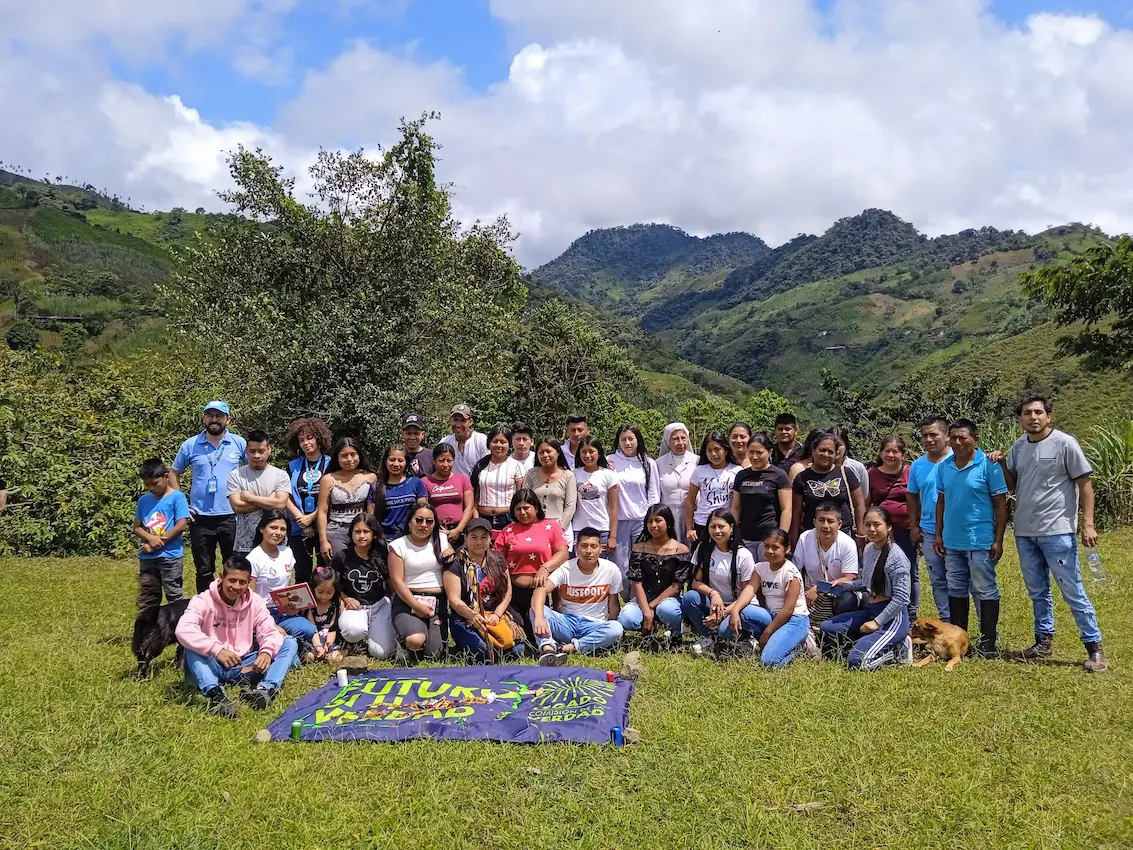
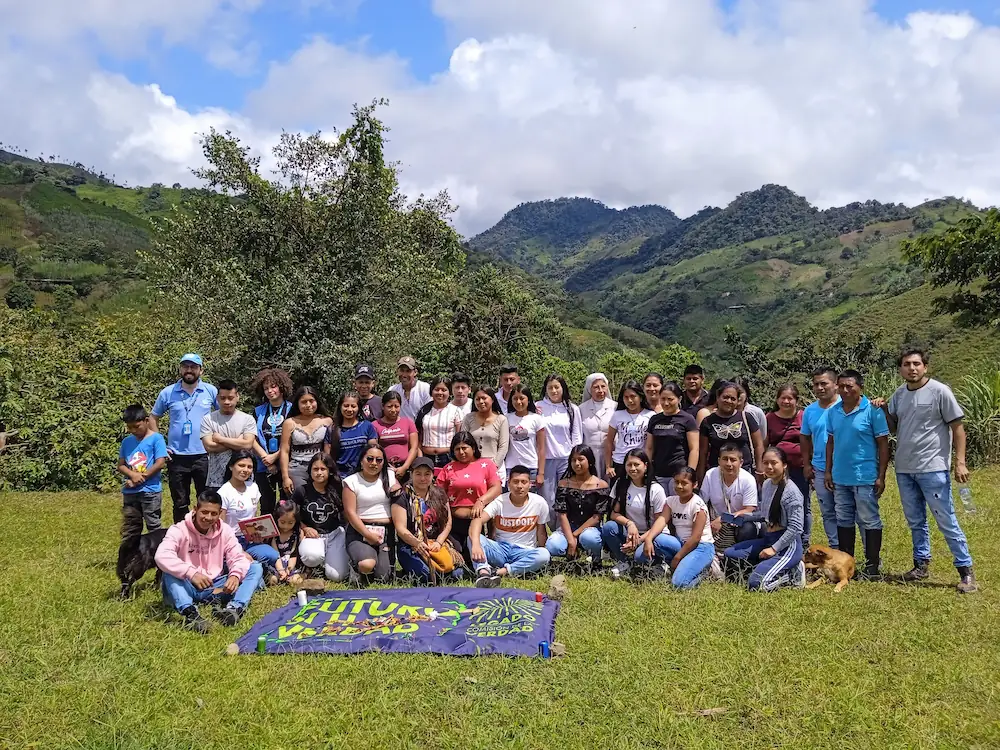
feat : mejorar imagenes

diff --git a/src/components/organisms/sections/about/AboutSection.tsx b/src/components/organisms/sections/about/AboutSection.tsx
@@ -11,28 +11,28 @@ const timeline = [
     title: "Fundación de la Organización",
     description:
       "La FUNDACIÓN CAMINOS DE PAZ Y ESPERANZA fue registrada legalmente el 05 de abril de 2017 ante la Cámara de Comercio de Pasto, Nariño, como una entidad sin ánimo de lucro. Su objeto principal es cooperar en la labor social encaminada a la PROMOCIÓN HUMANA y contribuir al desarrollo social, económico y cultural de la región. Esto incluye la formulación de planes y proyectos de educación (Formal, Informal, para el trabajo y desarrollo humano), con un enfoque en la inclusión social y proyección ambiental. Desde sus inicios, la Fundación se ha dedicado a atender a poblaciones vulnerables, como víctimas del conflicto armado, personas con discapacidad, población en situación de desplazamiento, y grupos étnicos.",
-    image: "/Image/1.jpg",
+    image: "/Image/1.webp",
   },
   {
     year: "2019",
     title: "Expansión Estratégica",
     description:
       "Este período marcó una Expansión Estratégica significativa, ampliando nuestra presencia y el alcance de los programas a 10 nuevas comunidades en Nariño. Esta expansión fortaleció la red de trabajo y permitió aplicar las líneas de acción de la Fundación, como el Desarrollo Socio Económico y Cultural y la Convivencia y Paz , en zonas que requieren atención psicosocial, fomento del espíritu emprendedor, y proyectos de reconciliación y no estigmatización en áreas afectadas por el conflicto armado.",
-    image: "/Image/2.jpg",
+    image: "/Image/2.webp",
   },
   {
     year: "2021",
     title: "Consolidación Institucional y Alianzas Educativas",
     description:
       "La Fundación recibió un Reconocimiento Nacional por sus iniciativas en promoción de la paz y el bienestar social, consolidando su reputación. Además, consolidó su capacidad formativa a través de convenios con instituciones como el POLITÉCNICO SUR ANDINO. Gracias a esta alianza, la Fundación ofrece capacitaciones, seminarios, cursos y diplomados con personal altamente calificado en áreas clave como Convivencia Escolar, Inclusión Educativa, Neuro psicopedagogía, y la apropiación crítica de las TIC'S en procesos formativos y productivos.",
-    image: "/Image/3.jpg",
+    image: "/Image/3.webp",
   },
   {
     year: "2025",
     title: "Impacto Actual",
     description:
       "Actualmente, la Fundación mantiene un impacto activo con más de 1000 beneficiarios, enfocándose en sus cuatro líneas de acción principales: Desarrollo Socio Económico y Cultural, Convivencia y Paz, Ambiente Sostenible y en Paz, y Proyecto de Vida Emprendimiento Sostenible. Se están ejecutando proyectos clave, como el Bordado Guatemalteco en Santa Bárbara para la autonomía económica de las mujeres, y proyectos de Agricultura Urbana Sostenible. Este trabajo continuo y su compromiso con la inclusión social y la sostenibilidad buscan lograr la Visión de ser líderes en el desarrollo de proyectos sociales para el año 2027.",
-    image: "/Image/4.jpg",
+    image: "/Image/4.webp",
   },
 ];
 

diff --git a/src/components/organisms/layout/Footer.tsx b/src/components/organisms/layout/Footer.tsx
@@ -30,7 +30,7 @@ export const Footer = () => {
 
           {/* Contacto */}
           <section aria-label="Contacto">
-            <h4 className="text-primario text-sm font-bold uppercase tracking-wider mb-6">
+            <h4 className="text-fondo text-sm font-bold uppercase tracking-wider mb-6">
               Contacto
             </h4>
             <address className="space-y-4 not-italic">
@@ -54,15 +54,15 @@ export const Footer = () => {
 
           {/* Enlaces internos */}
           <nav aria-label="Enlaces rápidos">
-            <h4 className="text-primario text-sm font-bold uppercase tracking-wider mb-6">
+            <h4 className="text-fondo text-sm font-bold uppercase tracking-wider mb-6">
               Enlaces
             </h4>
-            <FooterLinks className="text-claro/80 hover:text-primario transition-colors duration-300" />
+            <FooterLinks className="text-claro/80 hover:text-claro transition-colors duration-300" />
           </nav>
 
           {/* Redes sociales */}
           <section aria-label="Redes sociales">
-            <h4 className="text-primario text-sm font-bold uppercase tracking-wider mb-6">
+            <h4 className="text-fondo text-sm font-bold uppercase tracking-wider mb-6">
               Síguenos
             </h4>
             <SocialLinks className="flex gap-4" />
@@ -72,7 +72,7 @@ export const Footer = () => {
         {/* Footer Bottom */}
         <div className="border-t border-claro/20 pt-8">
           <div className="flex justify-center items-center">
-            <small className="text-claro/70 text-xs text-center">
+            <small className="text-claro text-xs text-center">
               © {new Date().getFullYear()} Fundación Caminos de Paz y Esperanza.
               Todos los derechos reservados.
             </small>

diff --git a/src/components/molecules/footer/FooterLinks.tsx b/src/components/molecules/footer/FooterLinks.tsx
@@ -4,7 +4,7 @@ export const FooterLinks = () => (
       <li key={link}>
         <a
           href={`#${link.toLowerCase()}`}
-          className="text-white/80 hover:text-primario text-sm transition-all duration-300 inline-flex items-center group"
+          className="text-white/80 hover:text-claro/70 text-sm transition-all duration-300 inline-flex items-center group"
         >
           <span className="w-1 h-1 rounded-full bg-primario mr-2 group-hover:mr-3 transition-all"></span>
           {link}

diff --git a/src/components/atoms/misc/ContactItem.tsx b/src/components/atoms/misc/ContactItem.tsx
@@ -9,7 +9,7 @@ interface ContactItemProps {
 export const ContactItem = ({ Icon, children, href = '#' }: ContactItemProps) => (
   <a href={href} className="flex items-start space-x-3 group">
     <Icon className="w-4 h-4 flex-shrink-0 mt-1 text-white" />
-    <span className="text-white/80 text-sm group-hover:text-primario transition-colors">
+    <span className="text-white/80 text-sm group-hover:text-claro/90 transition-colors">
       {children}
     </span>
   </a>

diff --git a/index.html b/index.html
@@ -10,7 +10,7 @@
     <meta name="author" content="Fundación Caminos de Paz y Esperanza" />
 
     <!-- Favicon -->
-    <link rel="icon" type="image/svg+xml" href="/static/Logo.svg" />
+    <link rel="icon" type="image/svg+xml" href="/static/Logo.webp" />
 
     <!-- Google Fonts -->
     <link rel="preconnect" href="https://fonts.googleapis.com" />
